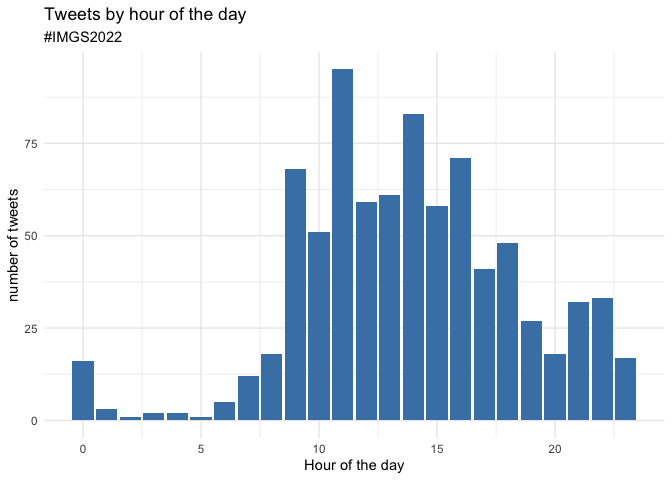
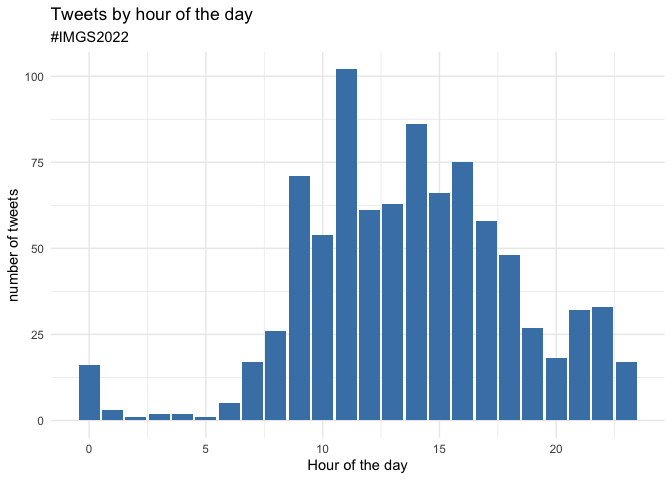
update 2022-06-22 18-39

diff --git a/IMGS2022_analysis.md b/IMGS2022_analysis.md
@@ -7,17 +7,17 @@ The top 11 users (since imgs2022 is in there too)
 
 | Twitter Username | Number of tweets |
 |:-----------------|-----------------:|
-| imgs2022         |              150 |
-| steph_coen       |               55 |
-| ampaimelody      |               29 |
+| imgs2022         |              160 |
+| steph_coen       |               56 |
+| ampaimelody      |               30 |
 | RoyalChukz       |               28 |
+| jamie0pearce     |               19 |
 | JoreintjeM       |               19 |
-| DrGrantAitken    |               16 |
-| hobbs_PA         |               15 |
-| jamie0pearce     |               15 |
-| gicycle\_        |               14 |
+| DrGrantAitken    |               17 |
+| hobbs_PA         |               17 |
+| gicycle\_        |               15 |
 | johale13         |               14 |
-| MichaelJWidener  |               11 |
+| dgwinfred        |               11 |
 
 Tweets per day of the conference and by hour of the day
 
